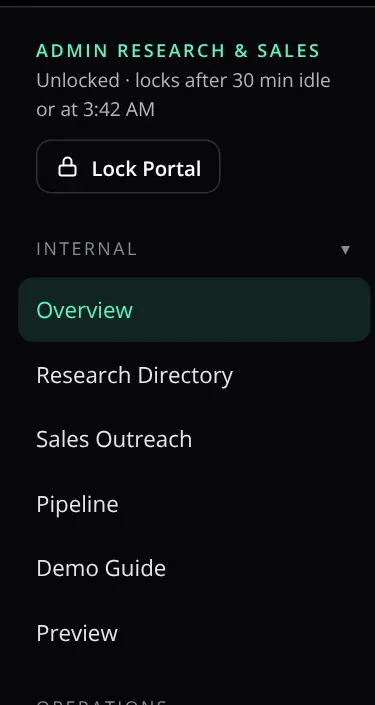
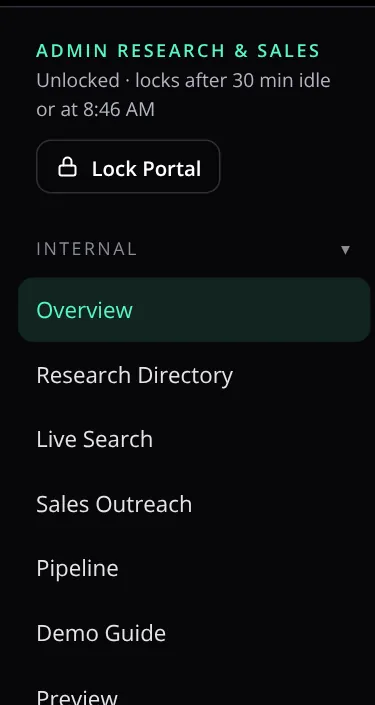
Refresh all Tutorial screenshots; add Live Search screenshots
- All 15 Tutorial screenshots retaken: the menu now shows Live Search, the
  Demo Guide and Preview reflect their current designs, and Live Search gets
  two screenshots (the form with its options, and an example result with the
  fit assessment and in-depth research).
- Research Directory now points to Live Search when it's connected.
- Fix: search titles in Live Search's Recent searches were invisible.

Claude-Session: https://claude.ai/code/session_01GrVvTPMGK2EGw5RtRxapyT

diff --git a/src/components/Tutorial.tsx b/src/components/Tutorial.tsx
@@ -278,6 +278,7 @@ export function TutorialPage() {
               Finds new affinity, employee-discount and member-benefit programs on the public web for you. Culturosity searches, reads the pages and returns{" "}
               <strong>suggestions with their sources</strong>. Nothing goes into the directory until you add it.
             </p>
+            <Shot src="14-live-search" alt="The Live Search form with the optional checkboxes" caption="A new search on the left (with both optional checkboxes ticked), and your recent searches on the right." />
             <Steps>
               <li>
                 Describe what you're looking for in plain words, e.g. “Teachers' associations in Manitoba that offer member discount programs”.
@@ -295,6 +296,11 @@ export function TutorialPage() {
                 For each suggestion, open <strong>Sources</strong> and check the pages. Select <strong>Add to directory</strong> for good fits or <strong>Dismiss</strong> for the rest.
               </li>
             </Steps>
+            <Shot
+              src="15-live-results"
+              alt="Live Search results with the Culturosity fit assessment and in-depth research"
+              caption="An example result: the Culturosity fit panel (from Extra-deep search) and the in-depth research details, with Add to directory and Dismiss."
+            />
             <Terms
               items={[
                 ["Suggestion", "An organization the search found. Every one is backed by pages actually retrieved during the search; anything it couldn't support is left out."],

diff --git a/src/pages/internal.tsx b/src/pages/internal.tsx
@@ -250,7 +250,14 @@ export function ResearchPage() {
         </div>
       ) : null}
       <div className="alert alert-info" style={{ marginBottom: 14, fontSize: ".88rem" }}>
-        {connector?.note ?? "Loading connector status…"} Many programs are private or not described online; this directory is never a complete list.
+        {connector?.liveSearch === "configured" ? (
+          <>
+            Looking for new programs? Use <Link to={`${B}/live-search`}>Live Search</Link> — it finds organizations online and suggests them with sources for you to review.{" "}
+          </>
+        ) : (
+          <>{connector?.note ?? "Loading connector status…"} </>
+        )}
+        Many programs are private or not described online; this directory is never a complete list.
       </div>
       <div className="panel" style={{ marginBottom: 14 }}>
         <div className="grid-3">

diff --git a/public/sw.js b/public/sw.js
@@ -3,7 +3,7 @@
  * Never caches /api/* (catalogue data, promo codes, member credentials, admin research, redemption tokens).
  * Navigations fall back to the cached shell, then to /offline.html when offline.
  */
-const VERSION = "cul-shell-v5"; // bump whenever cached static images change
+const VERSION = "cul-shell-v6"; // bump whenever cached static images change
 const SHELL = ["/", "/offline.html", "/manifest.webmanifest", "/brand/culturosity-logo.webp", "/brand/culturosity-logo.png", "/icon-192.png", "/icon-512.png"];
 
 self.addEventListener("install", (e) => {

diff --git a/src/styles/app.css b/src/styles/app.css
@@ -3812,6 +3812,7 @@ table.data tr.clickable {
   width: 100%;
   text-align: left;
   font: inherit;
+  color: var(--ink);
   cursor: pointer;
   border: 1px solid var(--line-light);
   background: #fff;
